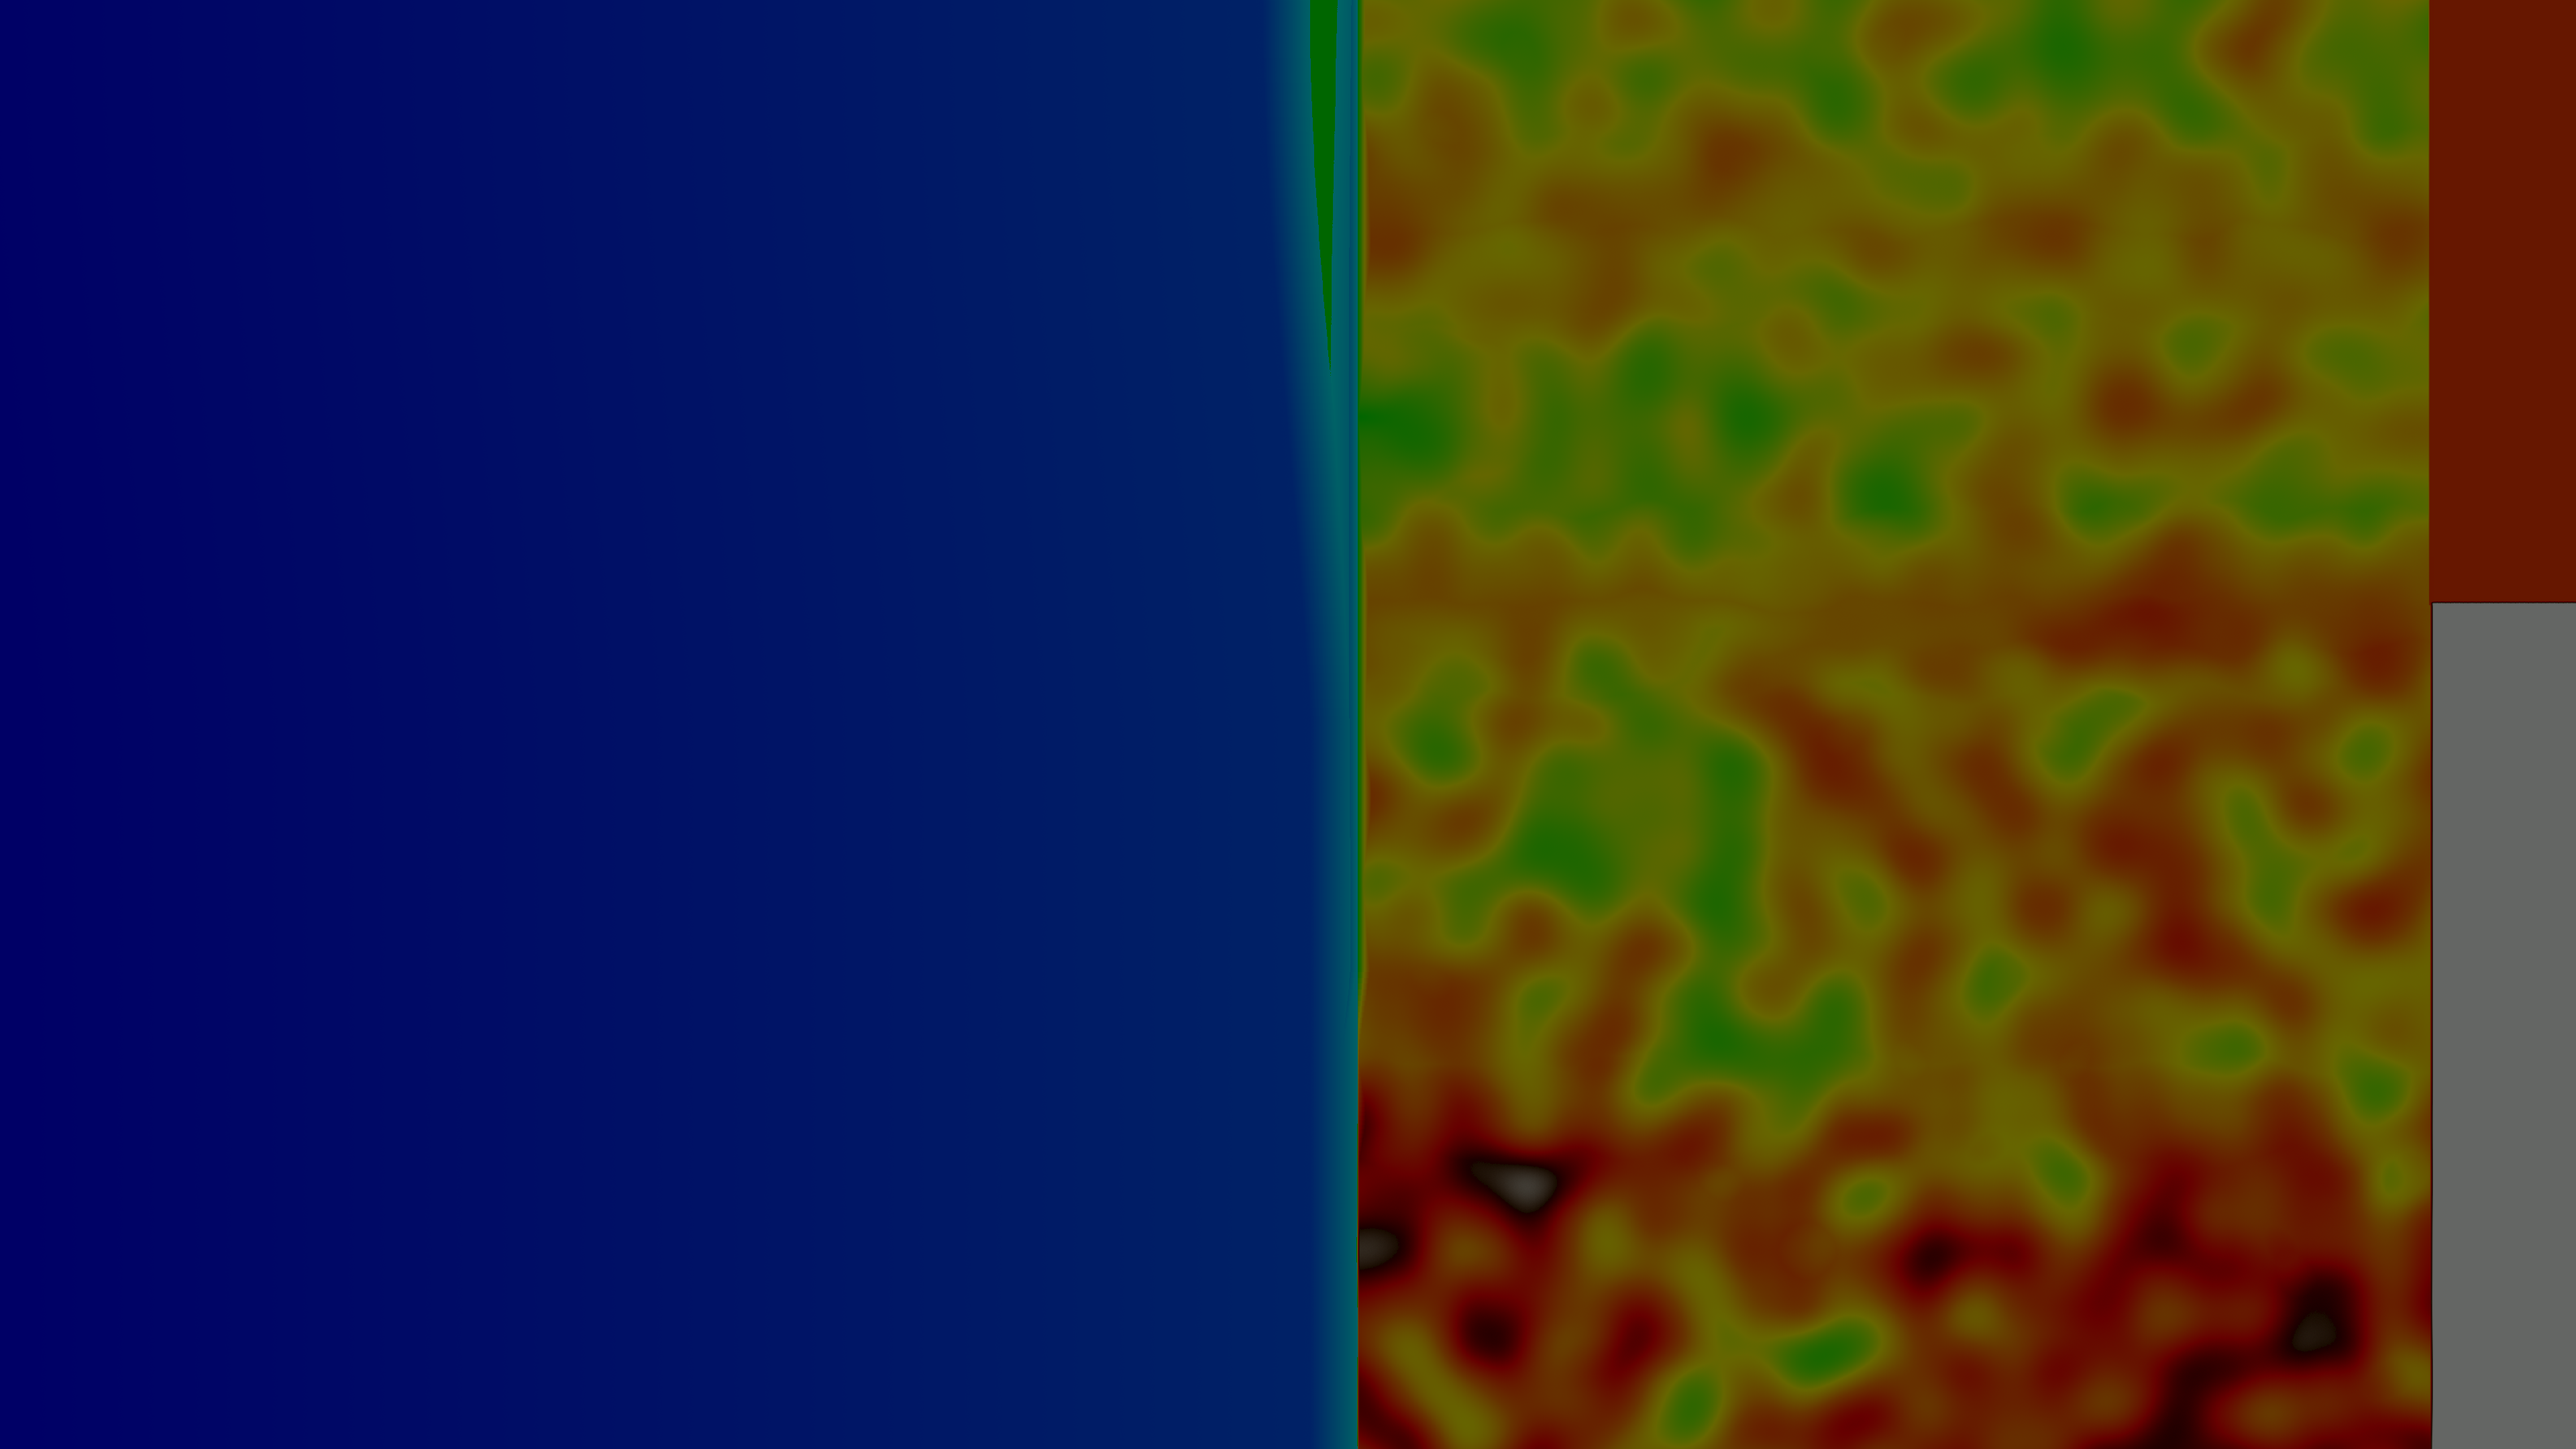
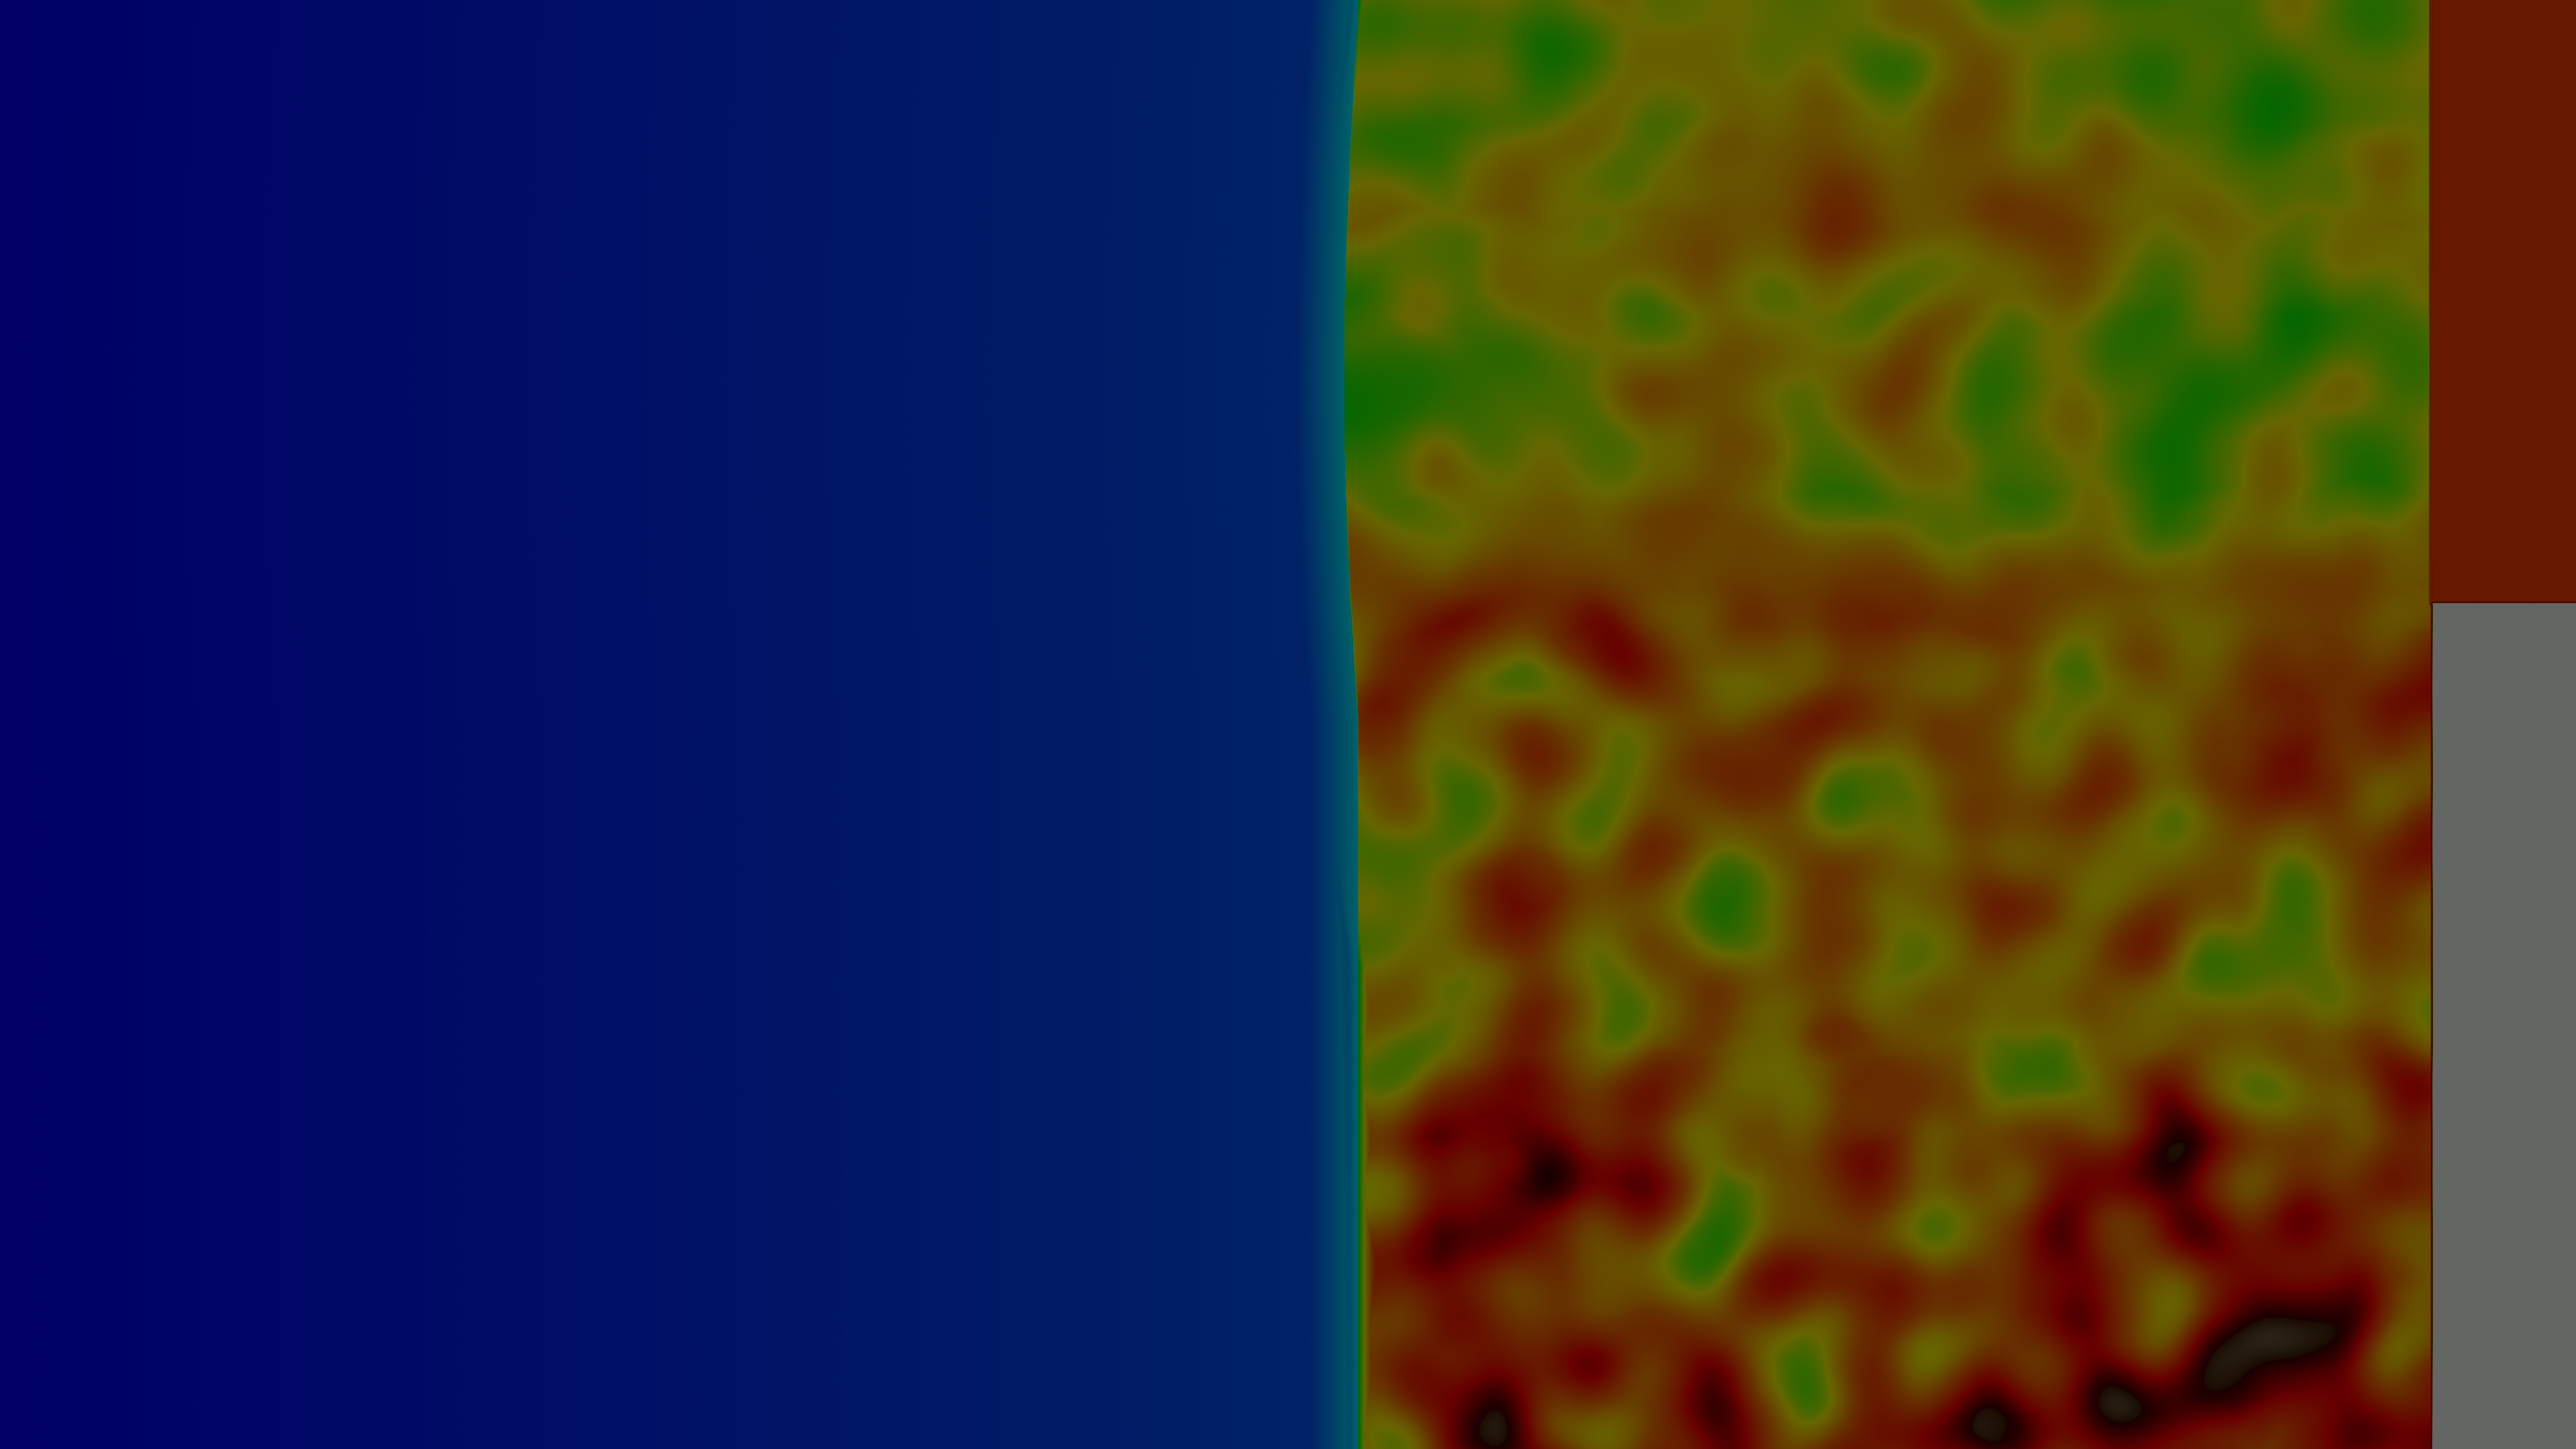
10000 rounds with some added randomness in erosion + rainfall.

Changed region(s): [[0.4688, 0.0, 0.9688, 1.0]]

diff --git a/src/main.rs b/src/main.rs
@@ -835,7 +835,8 @@ fn main() {
                 elevation,
                 water_depth: 0.0,
                 suspended_load: 0.0,
-                // TODO: Is the added randomness actually helping? Probably doens't hurt at least.
+                // Randomizing rainfall and erosion slightly seems to help with coastlines and mountains
+                // but may actually make my problems with chanelization worse.
                 rainfall: rainfall * RAINFALL_FACTOR * rng.gen_range(0.9..1.1),
                 erosion_multiplier: rng.gen_range(0.95..1.05),
                 original_land: elevation > SEA_LEVEL,
